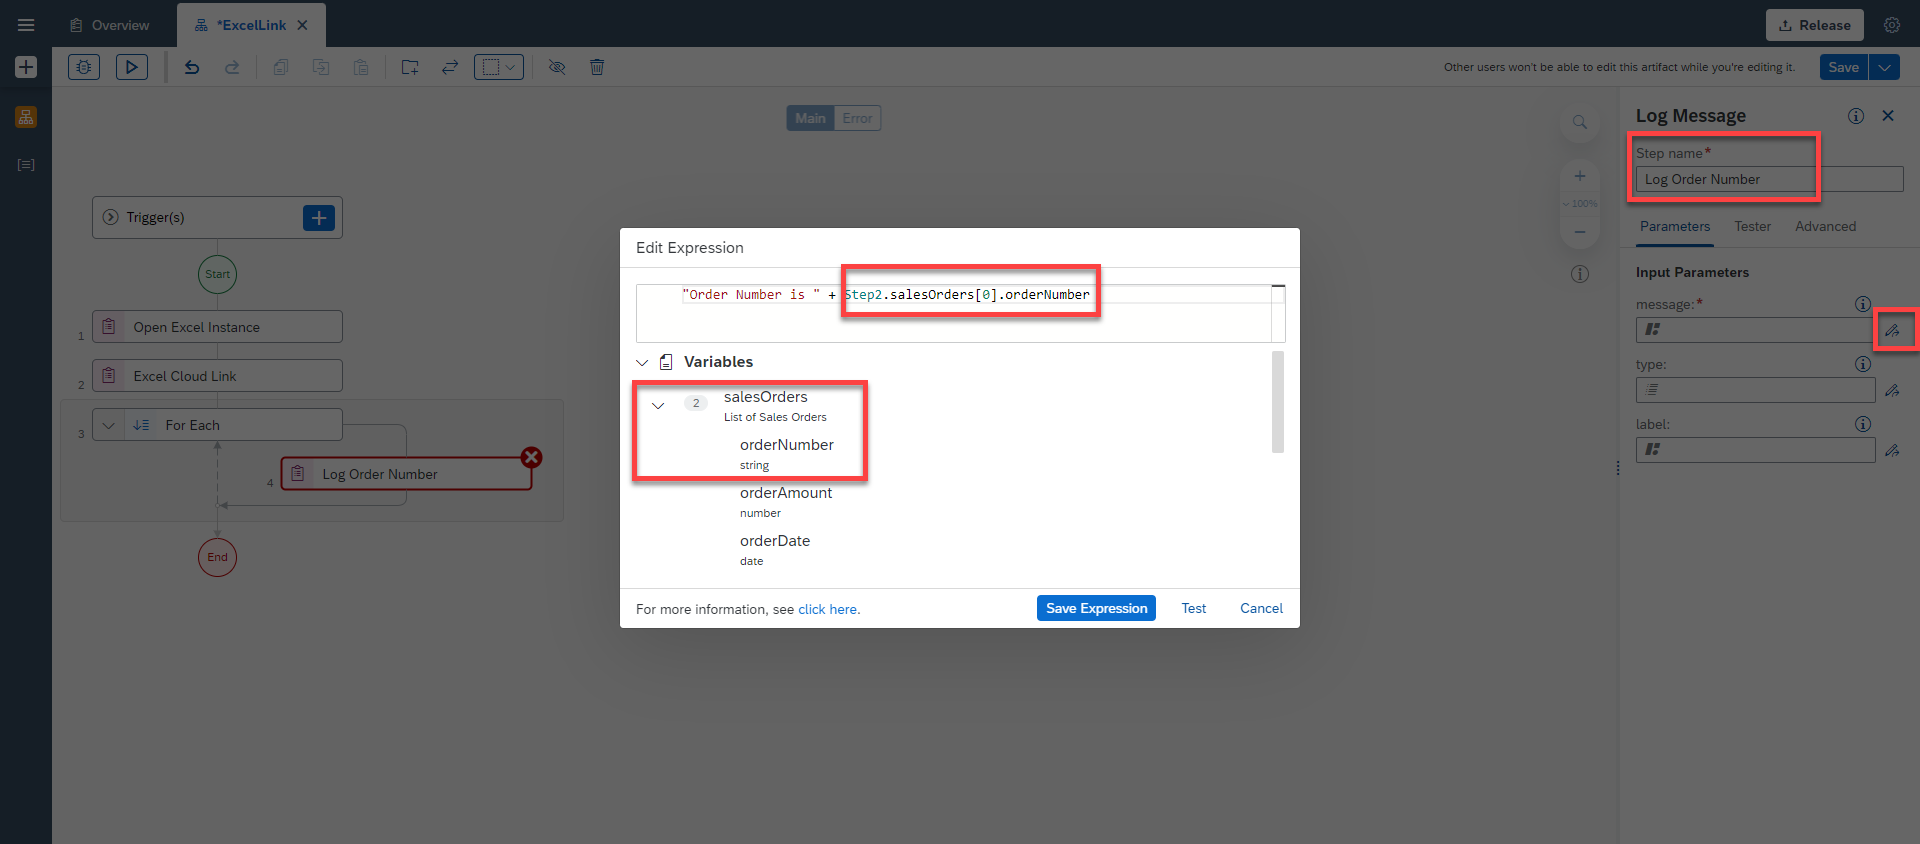
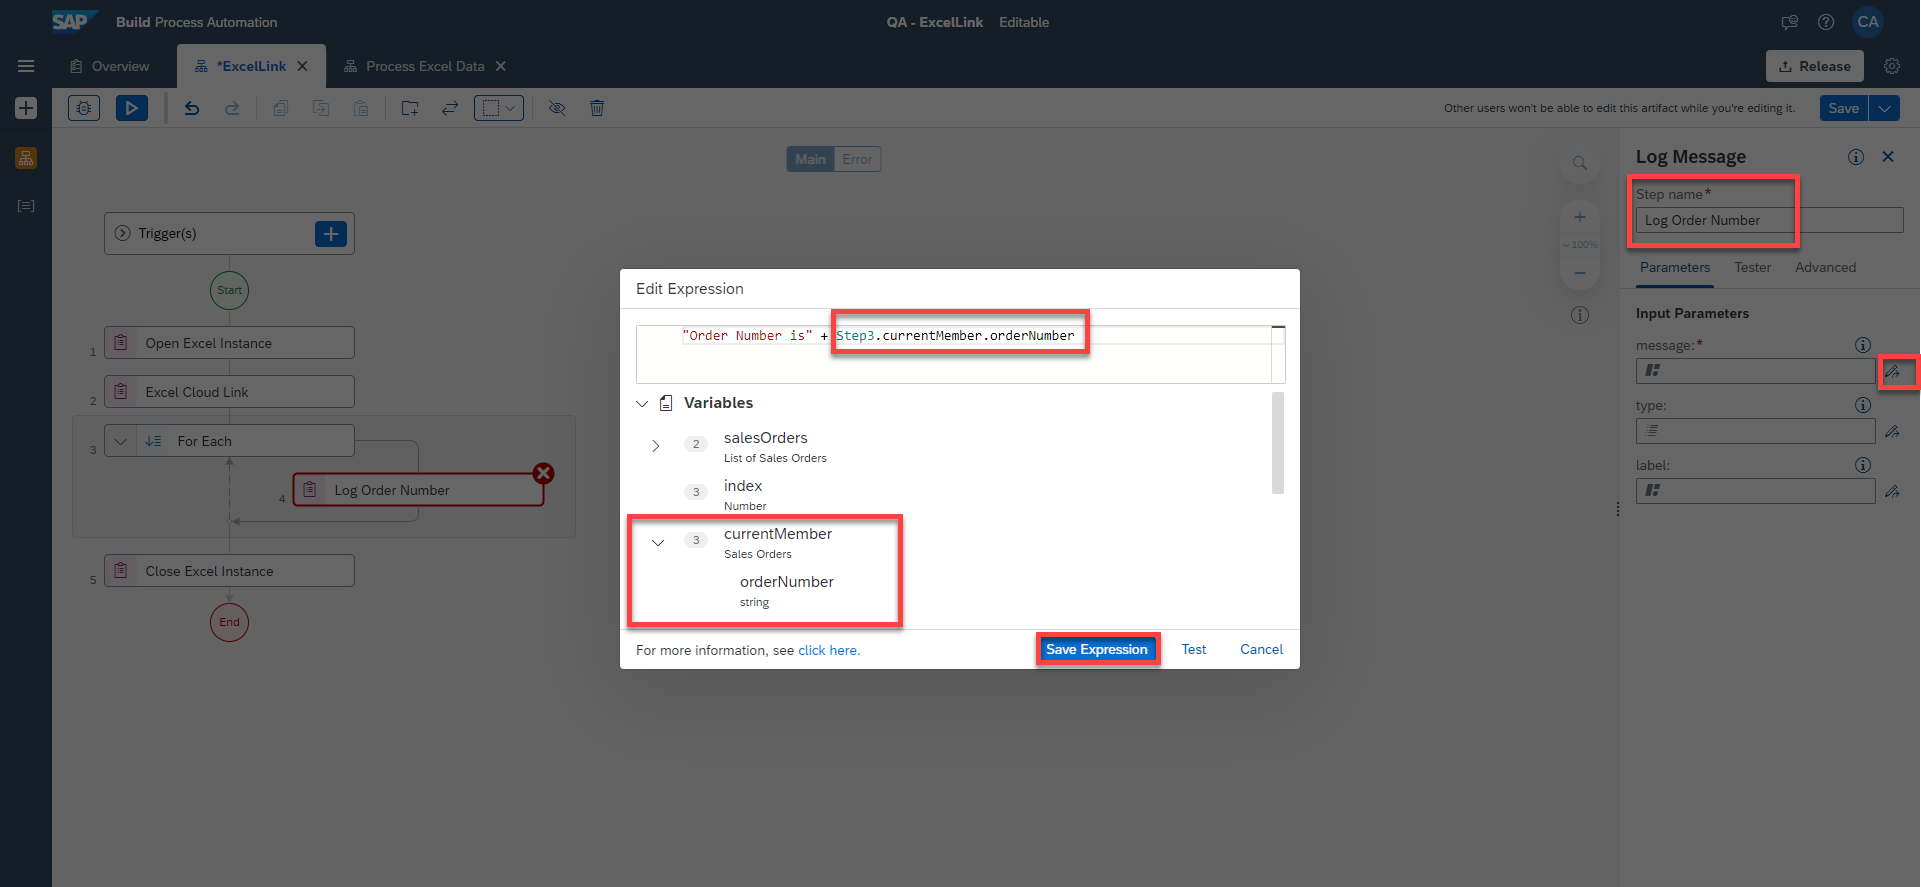
to prod

diff --git a/tutorials/spa-create-excel-automation/spa-create-excel-automation.md b/tutorials/spa-create-excel-automation/spa-create-excel-automation.md
@@ -134,25 +134,21 @@ You can also use an Excel sample of your choice.
 
 20. In the **Edit Expression** window, type: `"Order Number is " + `
 
-21. Then select `salesOrders`>`orderNumber` from the list of Variables.
+21. Then select `currentMember`>`orderNumber` from the list of Variables.
 
-    <!-- border -->![Add salesOrders OrderNumber](13.png)
+    <!-- border -->![Add currentMember OrderNumber](13.png)
 
-    It will take the 0-th index. You will have to use the index variable, so for each loop iteration, it will print the corresponding value.
-
-22. Within [0], insert the variable index.
-
-23. Choose **Save Expression**.
+22. Choose **Save Expression**.
 
     <!-- border -->![Add index variable](13-index.png)
 
-24. Add **Close Excel Instance** after the **For Each** loop as you added **Open Excel Instance** in the first step.
+23. Add **Close Excel Instance** after the **For Each** loop as you added **Open Excel Instance** in the first step.
 
-25. Choose **Save** to save your project.
+24. Choose **Save** to save your project.
 
     <!-- border -->![Add Close Excel Instance](14-1-AddCloseExcelInstance.png)
 
-26. Now you can test the output.
+25. Now you can test the output.
 
     <!-- border -->![Save and Run project to validate result](15-Output.png)
 
